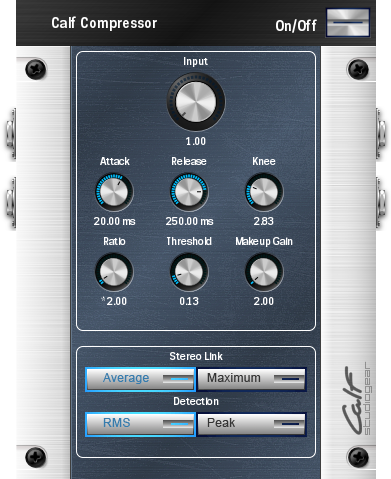
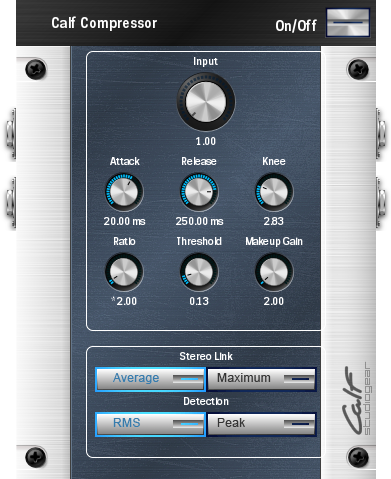
More calf css fixes; Update screenshot

diff --git a/plugins-fixed/calf.lv2/modgui/compressor/icon-calf-compressor.css b/plugins-fixed/calf.lv2/modgui/compressor/icon-calf-compressor.css
@@ -257,18 +257,18 @@
 
 /* titles of things */
 
-.calf-compressor .title-field{
+.calf-compressor .title-field {
     color: #FFF;
     font-size: 10px;
 }
-.toggle1-silver {
+.calf-compressor .toggle1-silver {
     background: url(/resources/img/toggle1_silver.png{{{ns}}});
     height: 20px;
     position: absolute;
     width: 30px;
 }
 
-.toggle2_silver-silver {
+.calf-compressor .toggle2_silver-silver {
     background: url(/resources/img/toggle2_silver.png{{{ns}}});
     height: 40px;
     position: absolute;
@@ -294,7 +294,7 @@
 .calf-compressor .line-cols-all {
     position: absolute;
 }
-.calf-compressor span.value-lines{
+.calf-compressor span.value-lines {
     font-size: 11px;
     left: 0;
     right: 0;
@@ -333,7 +333,7 @@
     width: 360px !important;
 }
 
-.calf-compressor .calf-control-group.top{
+.calf-compressor .calf-control-group.top {
     width: 406px;
     height: 116px;
     margin-left: 111px;
@@ -341,13 +341,12 @@
 .calf-compressor .calf-control-group.sides {
     width: 100px;
 }
-.calf-compressor .border-solid-and-radius{
-    width: 406px;
+.calf-compressor .border-solid-and-radius {
     height: 112px;
     margin-left: 70px;
     bottom: 10px;
 }
-.calf-compressor .knob{
+.calf-compressor .knob {
     margin-left: 28px;
 }
 .calf-compressor .slider {
@@ -373,10 +372,10 @@
     cursor: pointer;
 }
 
-.calf-compressor .toggle .off{
+.calf-compressor .toggle .off {
     background-position: 0 top !important;
 }
-.calf-compressor .toggle .on{
+.calf-compressor .toggle .on {
     background-position: 0 bottom !important;
 }
 
@@ -410,14 +409,17 @@
     text-align: center;
 }
 
-.knob, .slider-horiz, .tubeh2-off, .freq {
+.calf-compressor .knob,
+.calf-compressor .slider-horiz,
+.calf-compressor .tubeh2-off,
+.calf-compressor .freq {
     z-index: 99999;
 }
 
 /* Input/Output */
- .calf-pedal-input {
+.calf-compressor .calf-pedal-input {
     left:-46px !important;
  }
-.calf-pedal-output {
+.calf-compressor .calf-pedal-output {
     right:-44px !important;
 }

diff --git a/plugins-fixed/calf.lv2/modgui/compressor/icon-calf-compressor.html b/plugins-fixed/calf.lv2/modgui/compressor/icon-calf-compressor.html
@@ -11,7 +11,7 @@
           <div class="top"></div>
           <div class="bottom"></div>
         </div>
-        <div class="calf-control-group a  border-solid-and-radius">
+        <div class="calf-control-group a border-solid-and-radius">
             <div class="knob clearfix">
                 <span class="mod-knob-title">Input</span>
                 <div class="knob3 knob3-1" mod-role="input-control-port" mod-port-symbol="level_in"></div>
@@ -49,7 +49,7 @@
                 <span class="title-knob2-bottom" mod-role="input-control-value" mod-port-symbol="makeup"></span>
             </div>
         </div>
-        <div class="calf-control-group b  border-solid-and-radius">
+        <div class="calf-control-group b border-solid-and-radius">
             <div class="toggle">
                 <span class="mod-knob-title">Stereo Link</span>
                 <div class="sw1" mod-role="input-control-port" mod-port-symbol="stereo_link" mod-widget="switch"></div>
